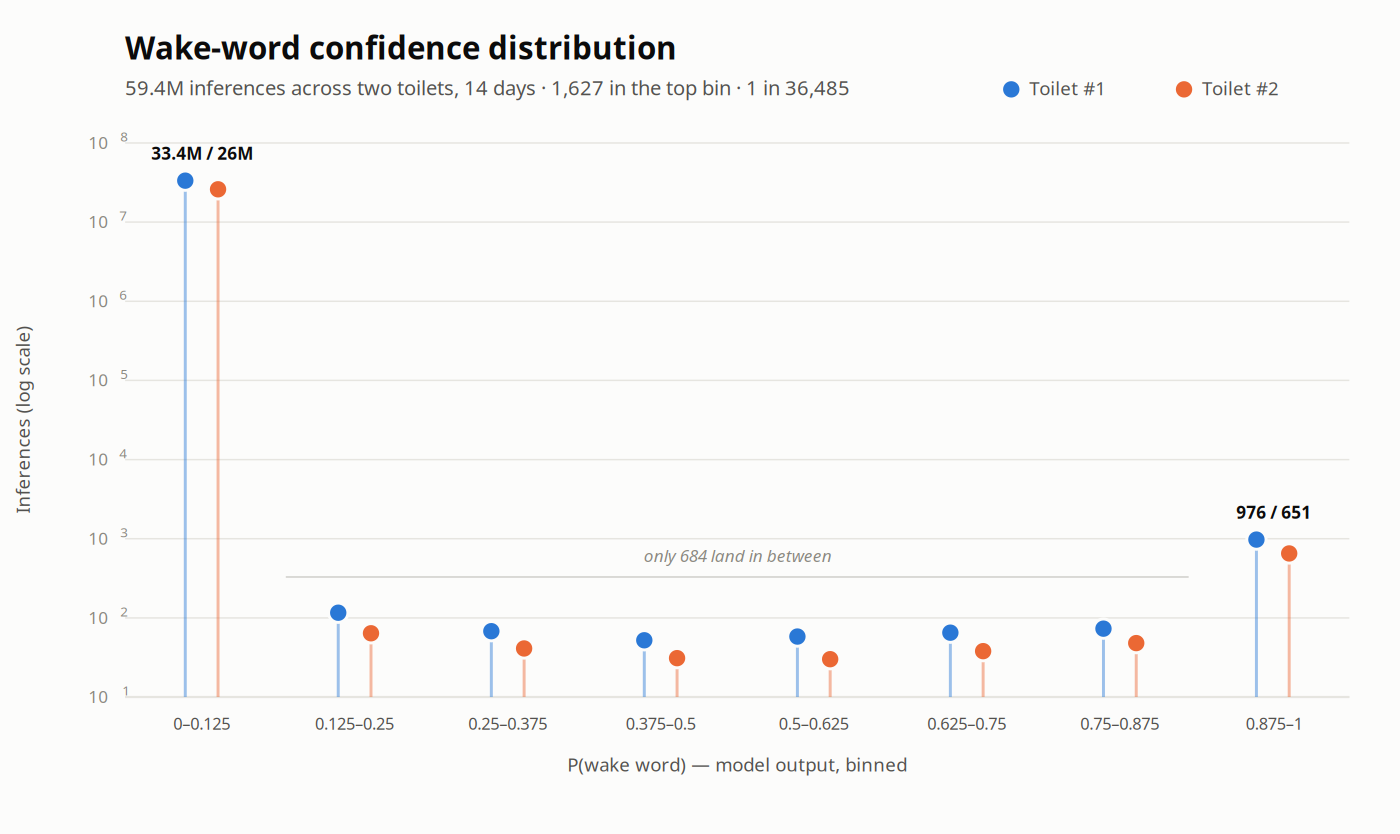
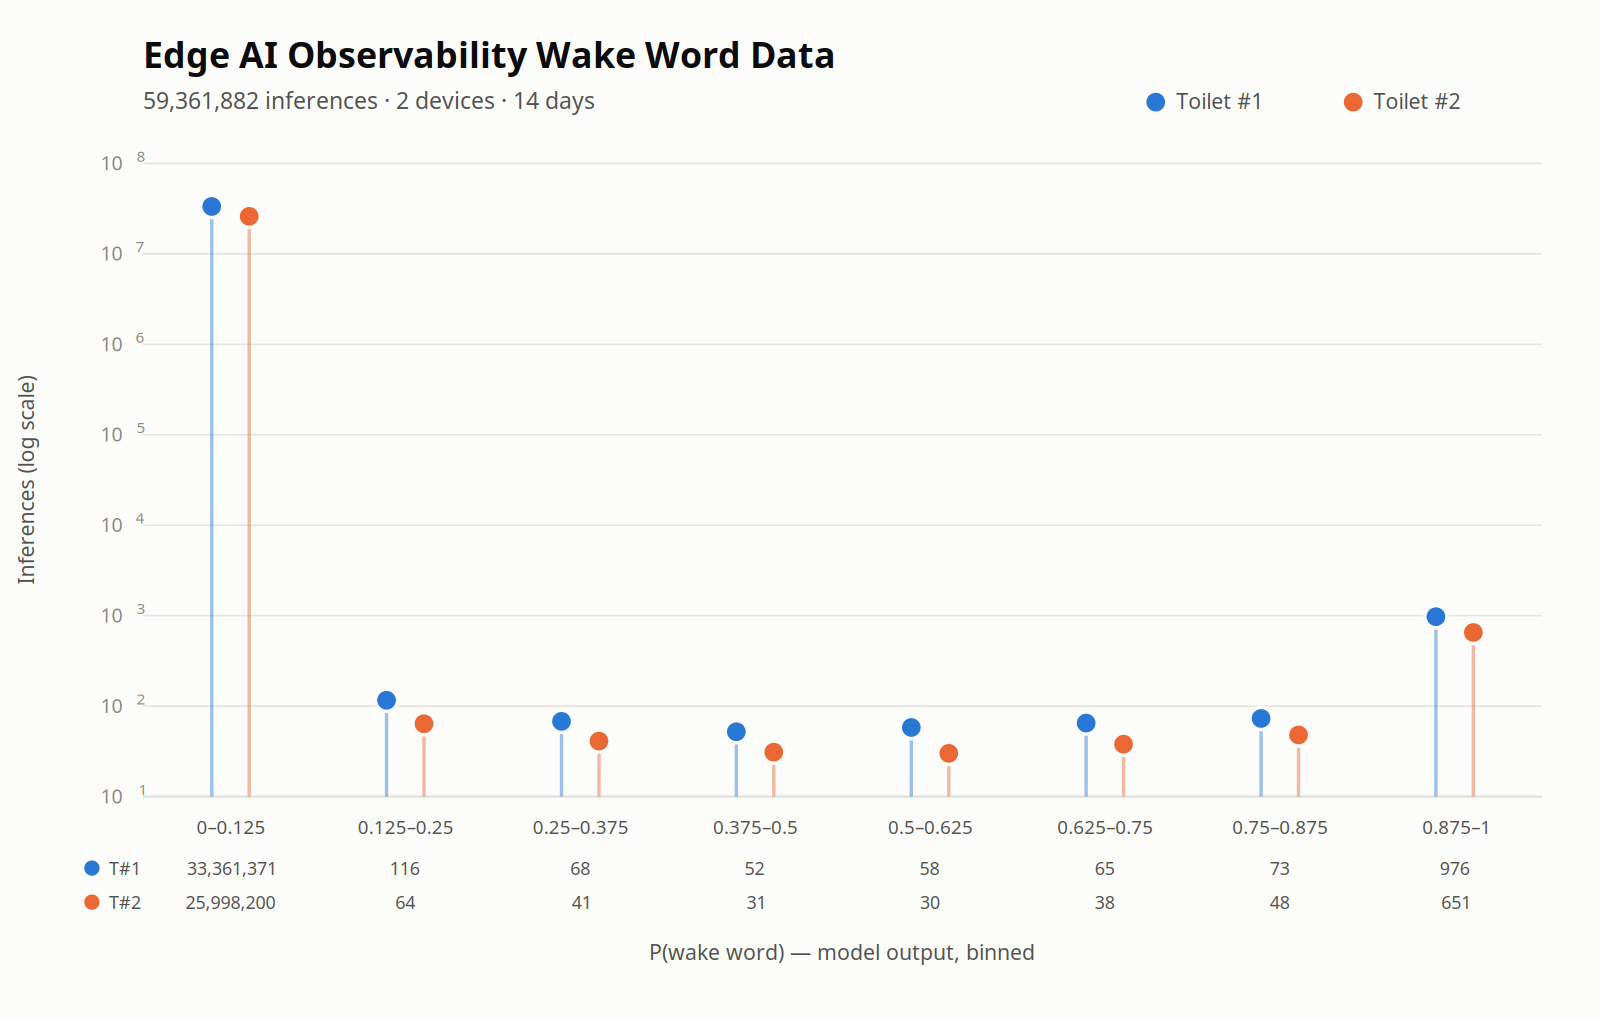
Retitle chart, drop editorializing, label every bin
User feedback: title is 'Edge AI Observability Wake Word Data', and every
bin carries its exact count rather than selective callouts.

Counts sit in per-series rows UNDER the axis rather than above each dot:
in bin 0 the two values differ by ~0.1 of a decade, about 6 px at this
plot height, so stacked labels would collide. The rows double as the
table view the palette's contrast WARN obligates.

Removed the italic annotations and the derived '1 in N' subtitle stat --
the subtitle is now inference count, device count, window length.

diff --git a/tools/plot_ww_distribution.py b/tools/plot_ww_distribution.py
@@ -30,8 +30,8 @@ DARK = {
     "s1": "#3987e5", "s2": "#d95926",
 }
 
-W, H = 940, 560
-M = {"t": 96, "r": 34, "b": 92, "l": 84}
+W, H = 940, 600
+M = {"t": 96, "r": 34, "b": 132, "l": 84}
 LOG_MIN, LOG_MAX = 1, 8  # decades 10^1 .. 10^8
 
 
@@ -69,12 +69,11 @@ def build(agg, c):
 
     # Title block
     s.append(f'<text x="{M["l"]}" y="40" font-size="21" font-weight="600" '
-             f'fill="{c["text"]}">Wake-word confidence distribution</text>')
-    # Avoid the "greater-or-equal" glyph: it falls back to a missing-glyph box
-    # in renderers whose font stack lacks it (cairosvg did exactly this).
+             f'fill="{c["text"]}">Edge AI Observability Wake Word Data</text>')
+    # Factual only -- no interpretation. Avoid the "greater-or-equal" glyph:
+    # it falls back to a missing-glyph box in renderers lacking it.
     s.append(f'<text x="{M["l"]}" y="64" font-size="13.5" fill="{c["text2"]}">'
-             f'{human(total)} inferences across two toilets, 14 days &#183; '
-             f'{fires:,} in the top bin &#183; 1 in {total//fires:,}</text>')
+             f'{total:,} inferences &#183; 2 devices &#183; 14 days</text>')
 
     # Legend (always present for 2 series)
     lx = W - M["r"] - 232
@@ -110,12 +109,9 @@ def build(agg, c):
             s.append(f'<circle cx="{mx:.1f}" cy="{y:.1f}" r="6.5" fill="{col}" '
                      f'stroke="{c["surface"]}" stroke-width="2"/>')
 
-        # Selective direct labels: only the two bins that carry the story
-        if b in (0, 7):
-            top = min(ypos(series[0][1][b]), ypos(series[1][1][b]))
-            s.append(f'<text x="{cx:.1f}" y="{top-14:.1f}" font-size="11.5" '
-                     f'text-anchor="middle" font-weight="600" fill="{c["text"]}">'
-                     f'{human(series[0][1][b])} / {human(series[1][1][b])}</text>')
+    # Every bin gets its exact count. These go in per-series rows UNDER the
+    # axis rather than above each dot: in bin 0 the two values differ by only
+    # ~0.1 of a decade, so stacked labels would collide.
 
     # X axis labels
     edges = [f"{i/8:.3f}".rstrip("0").rstrip(".") for i in range(9)]
@@ -124,22 +120,23 @@ def build(agg, c):
         s.append(f'<text x="{cx:.1f}" y="{y0+ph+22}" font-size="11" text-anchor="middle" '
                  f'fill="{c["text2"]}">{edges[b]}&#8211;{edges[b+1]}</text>')
 
-    s.append(f'<text x="{x0+pw/2:.1f}" y="{y0+ph+50}" font-size="12.5" text-anchor="middle" '
+    # Per-series value rows (exact counts for every bin)
+    for i, (name, bins, col) in enumerate(series):
+        ry = y0 + ph + 46 + i * 20
+        s.append(f'<circle cx="{x0-30}" cy="{ry-4:.1f}" r="4.5" fill="{col}"/>')
+        s.append(f'<text x="{x0-20}" y="{ry:.1f}" font-size="10.5" '
+                 f'fill="{c["text2"]}">{name.replace("Toilet ", "T")}</text>')
+        for b in range(nbins):
+            cx = x0 + slot * (b + 0.5)
+            s.append(f'<text x="{cx:.1f}" y="{ry:.1f}" font-size="10.5" '
+                     f'text-anchor="middle" fill="{c["text2"]}">{bins[b]:,}</text>')
+
+    s.append(f'<text x="{x0+pw/2:.1f}" y="{y0+ph+96}" font-size="12.5" text-anchor="middle" '
              f'fill="{c["text2"]}">P(wake word) &#8212; model output, binned</text>')
     s.append(f'<text x="20" y="{y0+ph/2:.1f}" font-size="12.5" text-anchor="middle" '
              f'fill="{c["text2"]}" transform="rotate(-90 20 {y0+ph/2:.1f})">'
              f'Inferences (log scale)</text>')
 
-    # Annotation: the near-empty middle is the actual point of the chart, so
-    # anchor it just above the middle bins rather than floating in dead space.
-    midx = x0 + slot * 4
-    mid_top = min(ypos(series[0][1][b]) for b in range(1, 7))
-    s.append(f'<text x="{midx:.1f}" y="{mid_top-34:.1f}" font-size="11.5" text-anchor="middle" '
-             f'fill="{c["muted"]}" font-style="italic">'
-             f'only {sum(series[0][1][1:7])+sum(series[1][1][1:7]):,} land in between</text>')
-    s.append(f'<line x1="{x0+slot*1.05:.1f}" y1="{mid_top-24:.1f}" '
-             f'x2="{x0+slot*6.95:.1f}" y2="{mid_top-24:.1f}" '
-             f'stroke="{c["muted"]}" stroke-width="1" opacity="0.4"/>')
 
     s.append('</svg>')
     return "\n".join(s)
